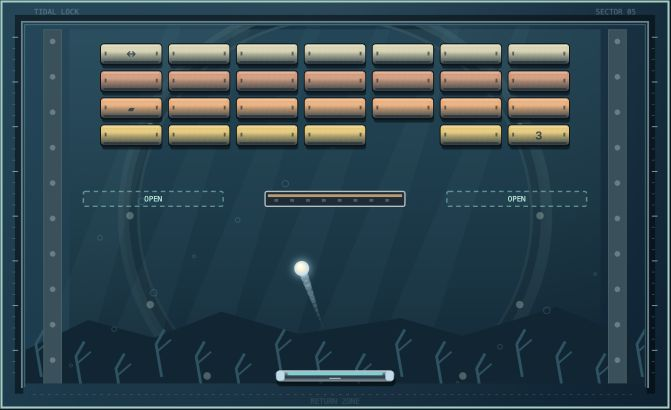
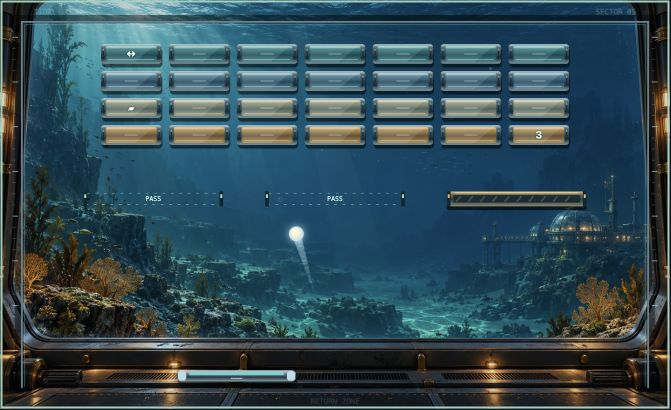
Polish tidal Breakout with underwater environment and glass materials

diff --git a/breakout.js b/breakout.js
@@ -1,5 +1,5 @@
 import { BreakoutGame, W, H, STEP, LEVELS, POWERS } from './breakout-engine.mjs?v=3';
-import {createBreakoutArt} from './breakout-art.mjs?v=2';
+import {createBreakoutArt} from './breakout-art.mjs?v=3';
 
 const canvas = document.getElementById('breakout-canvas');
 const ctx = canvas.getContext('2d');
@@ -12,6 +12,7 @@ const reduced = matchMedia('(prefers-reduced-motion: reduce)');
 const keys = new Set();
 let best = 0, enabledSound = true, audio = null, lastTone = 0, voices = 0;
 const art = createBreakoutArt(ctx, reduced);
+let tidalRequested=false;
 let hitStop = 0, finishDelay = 0;
 let frameId = 0, lastTime = 0, accumulator = 0, lastUI = '', activePointer = null;
 try {
@@ -149,7 +150,7 @@ function pause(automatic = false) {
   if (game.mode !== 'playing') return;
   game.mode = 'paused'; presentOverlay(automatic);
 }
-function draw(dt = 0) { art.draw(game, dt); }
+function draw(dt = 0) { loadTidalScenery();art.draw(game, dt); }
 function frame(now) {
   frameId = 0;
   const elapsed = lastTime ? Math.min((now-lastTime)/1000,.05) : 0;
@@ -234,3 +235,13 @@ document.addEventListener('fullscreenchange', () => {
   ui.fullscreen.textContent = document.fullscreenElement ? '退出全屏' : '全屏'; resize();
 });
 soundButton(); presentOverlay(false,false); resize();
+
+// Load only when the water level is selected; a failed request keeps procedural scenery.
+function loadTidalScenery(){
+  if(game.level!==5||tidalRequested)return;
+  tidalRequested=true;
+  const image=new Image();image.decoding='async';
+  image.onload=()=>{art.setTidalImage(image);draw();};
+  image.src=new URL('./game-assets/breakout/tidal-observatory.jpg',import.meta.url).href;
+}
+loadTidalScenery();

diff --git a/games/breakout.html b/games/breakout.html
@@ -72,6 +72,6 @@
   </main>
   <footer class="site-footer"><div class="container"><p>© 2026 Chengqian Huang · <a href="https://github.com/ChengqianHuang/chengqianhuang.github.io" target="_blank" rel="noopener">本站源码</a></p></div></footer>
   <script src="/theme.js"></script>
-  <script type="module" src="/breakout.js?v=5"></script>
+  <script type="module" src="/breakout.js?v=6"></script>
 </body>
 </html>

diff --git a/game-assets/breakout/ART.md b/game-assets/breakout/ART.md
@@ -1,0 +1,11 @@
+# Tidal Observatory
+
+`tidal-observatory.jpg`: generated with the built-in image_gen tool for the fifth Breakout level. Converted to JPEG at quality 82 for delivery. Background only; collision geometry and all interactive elements are drawn by Canvas. The procedural background remains available if the asset fails to load.
+
+## Generation prompt
+
+Use case: stylized-concept
+Asset type: production background art for a polished 2D Breakout game, landscape 18:11 composition.
+Primary request: an exquisite underwater research observatory viewed straight through a broad rectangular panoramic pressure window into a deep teal ocean. Painterly 3D game environment with physically convincing materials and cinematic depth, understated and sophisticated.
+Composition: nearly all of the central 85 percent is open blue-green water, quiet and low contrast so moving small game objects can be read. Upper third calm dark teal water for brick overlays. A distant submerged research structure sits small at lower right, seabed terraces and sparse amber sea fans frame bottom corners, hazy far cliffs and tiny distant fish. Thick beveled glass window with dark brushed titanium ribs only at extreme left and right edges and bottom, brass fittings, recessed soft amber practical lamps, fine machining and age marks. No circular central ring. Clear depth from sharp foreground metal through mid-distance reefs to blue distant haze. Surface daylight shafts enter from upper left, restrained turquoise caustics on bottom rock. Central and lower central water remains clean. Warm accent lights against cool water, rich but not neon. Detail concentrated at edges, subtle at center.
+Constraints: background only; absolutely no bricks, ball, paddle, game UI, labels, typography, logos or watermark. No purple. No overly bright center, no bloom haze washing out image. Wide horizontal composition, high-quality finished game key art, not schematic line art.

diff --git a/GAMES.md b/GAMES.md
@@ -37,3 +37,5 @@
 打砖块的绘制与特效在 `breakout-art.mjs`，只读取游戏状态；八关物理布局不由绘制层改变。`breakout.js` 管理输入、短暂撞击停顿、分层音效和全屏。减少动态效果偏好关闭震动、碎片、拖尾与撞击停顿。运行 `node scripts/test_breakout.mjs`，同时验证八关通关及绘制不修改物理状态；封面 `game-assets/breakout.png` 来自实际游戏截图。
 
 打砖块八关采用独立机关：港口基础反弹、钢墙回廊、横移传送带、双开关护盾、周期闸门、三簇爆破矿脉、限幅下沉砖阵、三阶段核心战。钢墙与闸门不计入通关目标，关门时让已进入的球先离开；核心每段装甲结束会重新生成两个供能器。关卡计时只在物理更新中推进，暂停冻结、丢球保留、切关重置。背景在 `breakout-scenes.mjs`，读取机关状态，不参与碰撞。`?level=1..8` 可指定起点；新规则最高分使用 `breakout-best-v2-start-<level>`，不同起点分开保存，保留旧 v1 键不覆盖。检查包含所有机关的碰撞、免伤 / 解锁、核心三阶段、不同时间步、选关和整关通关。
+
+第五关使用 `game-assets/breakout/tidal-observatory.jpg` 美术底图，生成提示词见同目录 `ART.md`。按需加载并缓存到背景画布，失败时保留程序背景；水下颗粒和光束只读取关卡时间。玻璃模块、闸门及球仍由 Canvas 绘制，命中边界不变。
